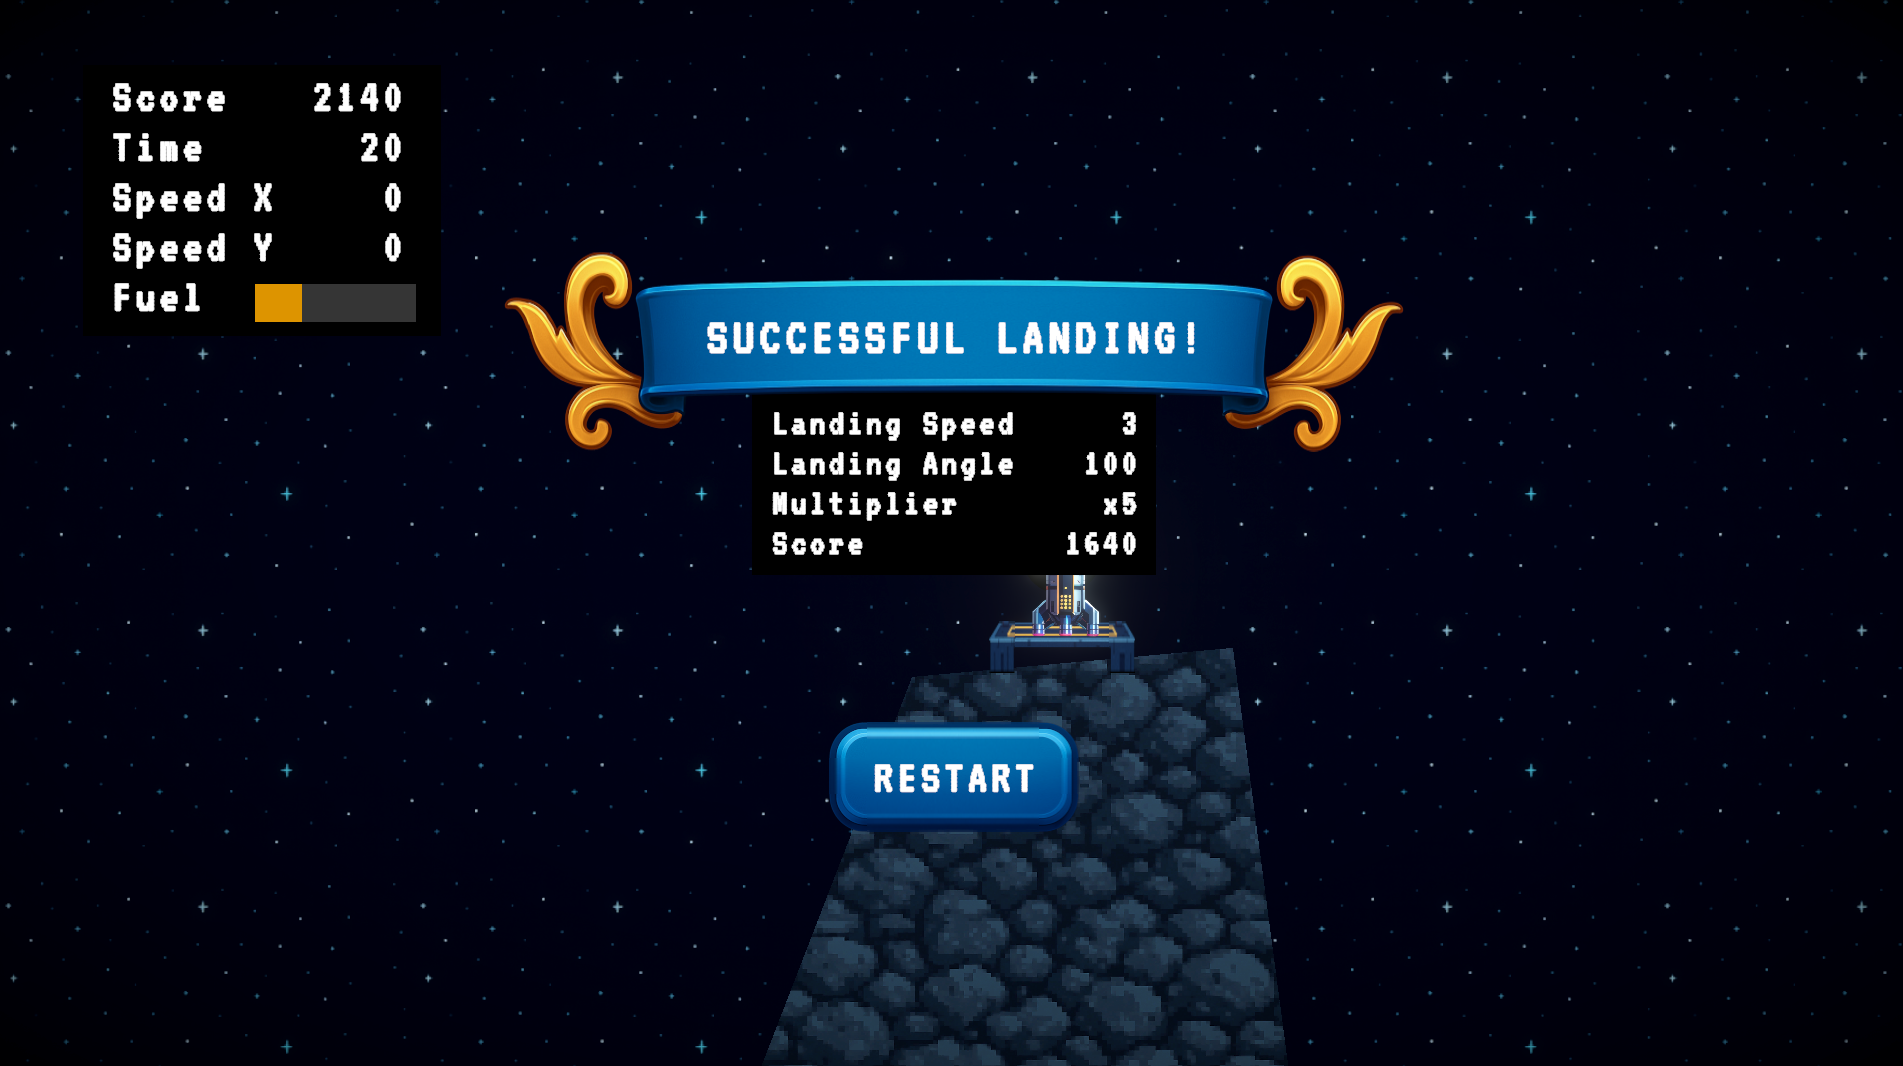
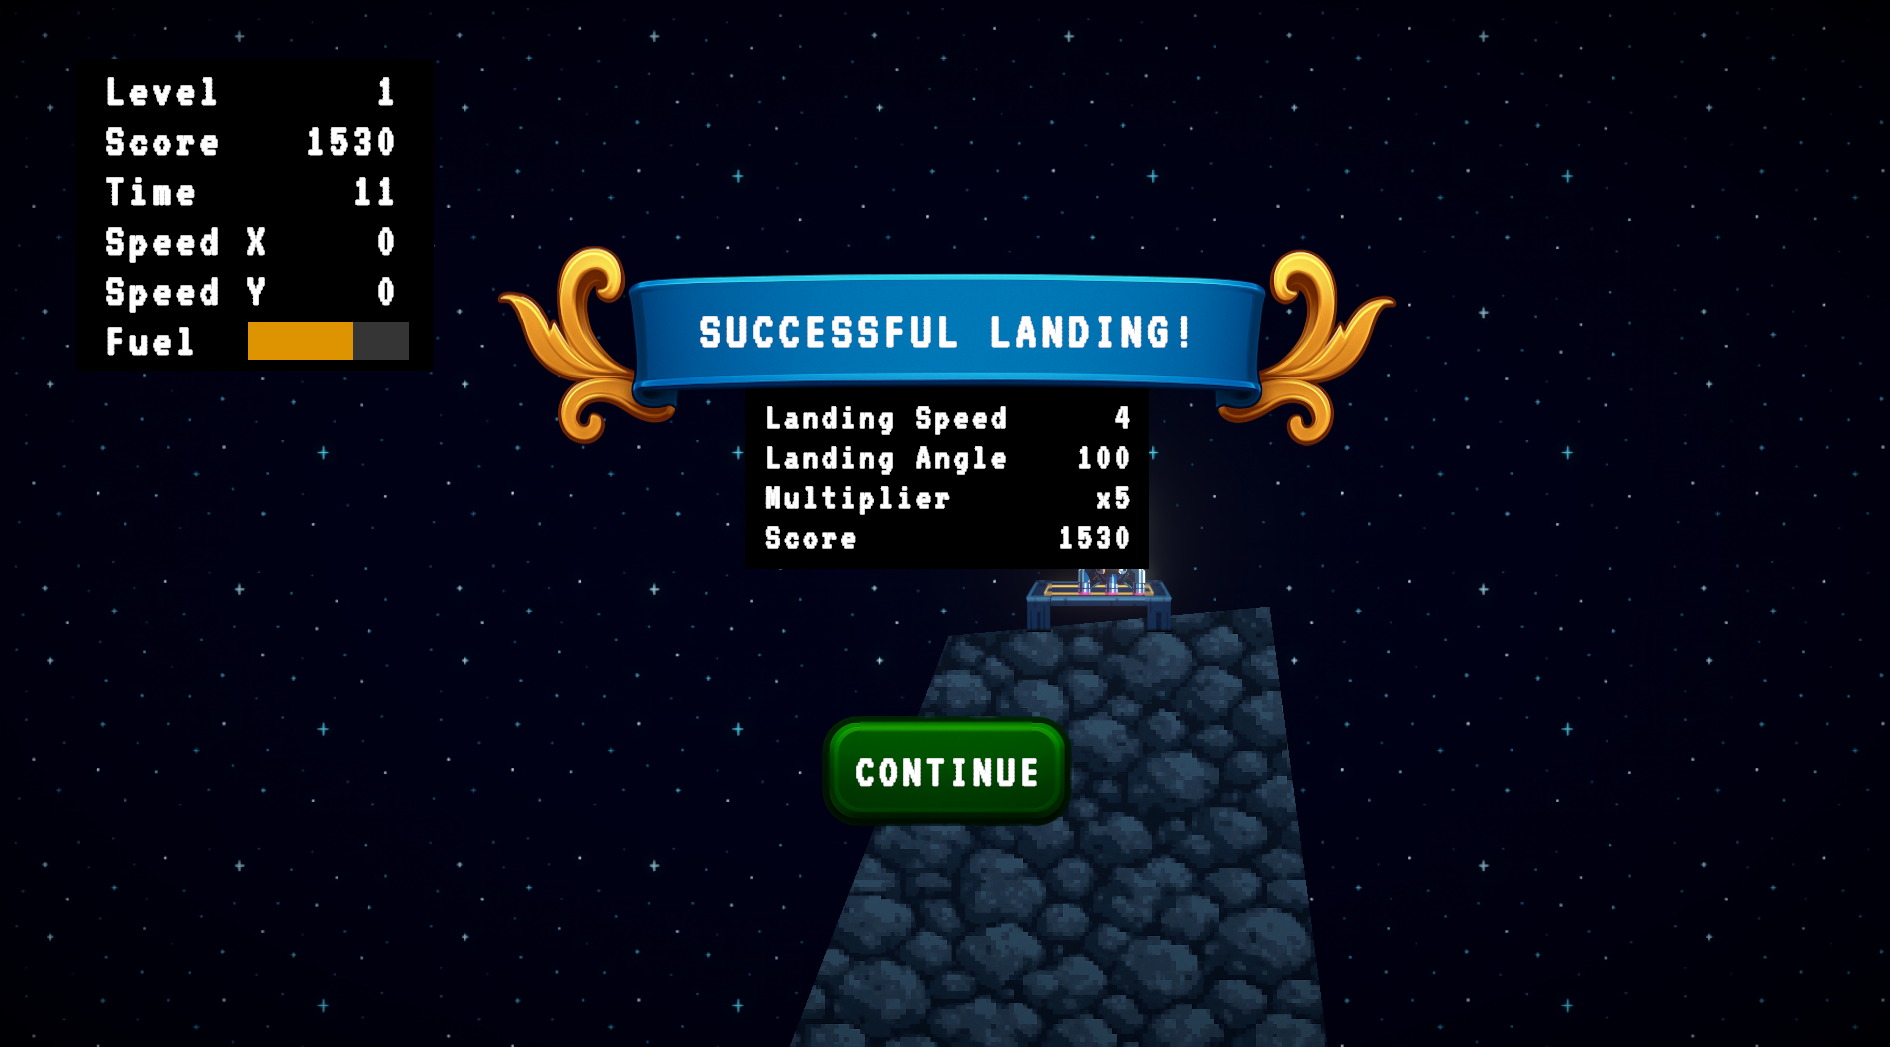
docs: finalize README with features and updated screenshots

diff --git a/README.md b/README.md
@@ -1,51 +1,52 @@
-# LuaLander
+# Lua Lander
 
-LuaLander is a small 2D lander game made with Unity.
+Lua Lander is a small 2D physics-based landing game made with Unity.
 
-The objective is to control the lander with its thrusters, collect coins and fuel pickups, and reach a landing pad without crashing. A landing is evaluated based on the lander's speed and angle. Safer and more accurate landings award a higher score, while some landing pads provide score multipliers.
+Control the lander with its thrusters, collect coins and fuel, and reach a landing pad without crashing. Landings are evaluated by speed and angle: safer, more accurate landings award higher scores, while smaller landing pads provide larger score multipliers.
 
-## Gameplay
+## Features
 
-- Use the upward thruster to move in the direction the lander is facing.
-- Use the left and right controls to rotate the lander.
-- Collect fuel pickups to restore fuel.
-- Collect coins to increase the score.
-- Land slowly and as upright as possible.
-- Avoid hitting the terrain or landing at excessive speed or angle.
-- Use higher-multiplier landing pads to earn more points.
+- Physics-based thrust and rotation
+- Keyboard and gamepad controls
+- Multiple levels with different landing challenges
+- Fuel management and collectible pickups
+- Landing scores based on speed, angle, and pad multiplier
+- Smooth Cinemachine level previews and camera zoom
+- Main menu, pause menu, landing results, and game-over screens
+- Music, thruster audio, and gameplay sound effects
 
 ## Controls
 
-| Action | Key |
-|---|---|
-| Thrust | Up Arrow |
-| Rotate Left | Left Arrow |
-| Rotate Right | Right Arrow |
+| Action | Keyboard | Gamepad |
+|---|---|---|
+| Thrust | `W` or Up Arrow | South button or Left Stick Up |
+| Rotate Left | `A` or Left Arrow | West button or Left Stick Left |
+| Rotate Right | `D` or Right Arrow | East button or Left Stick Right |
+| Pause / Resume | `Esc` | Start |
 
 ## Screenshots
 
-### Gameplay
-
-![Gameplay](docs/images/gameplay.png)
-
-### Landing Result
-
-![Landing Result](docs/images/landing-result.png)
-
-### Crash Result
-
-![Crash Result](docs/images/crash-result.png)
+<table>
+  <tr>
+    <td align="center"><strong>Main Menu</strong><br><img src="docs/images/main-menu.png" alt="Main menu" width="100%"></td>
+    <td align="center"><strong>Flight Gameplay</strong><br><img src="docs/images/flight-gameplay.png" alt="Lander flying through a level" width="100%"></td>
+    <td align="center"><strong>Pause Menu</strong><br><img src="docs/images/pause-menu.png" alt="Paused level overview" width="100%"></td>
+  </tr>
+  <tr>
+    <td align="center"><strong>Landing Approach</strong><br><img src="docs/images/gameplay.png" alt="Lander approaching a landing pad" width="100%"></td>
+    <td align="center"><strong>Successful Landing</strong><br><img src="docs/images/landing-result.png" alt="Successful landing result" width="100%"></td>
+    <td align="center"><strong>Crash Result</strong><br><img src="docs/images/crash-result.png" alt="Crash result" width="100%"></td>
+  </tr>
+</table>
 
 ## Project Status
 
-The project is still in development.
+The tutorial project is complete.
 
-It was created as a Unity learning project by following this tutorial:
+It was created as a learning project while following:
 
-[Unity Beginner Tutorial on YouTube](https://youtu.be/nGKd4yTP3M8)
+[Code Monkey's Unity 2D beginner course](https://youtu.be/nGKd4yTP3M8)
 
 ## Attribution and Licensing
-
-This educational project was created while following [Code Monkey's Unity 2D beginner course](https://youtu.be/nGKd4yTP3M8).
 
 My original source code and modifications are provided for educational purposes. Unity packages, fonts, tutorial assets, and other third-party materials remain subject to their respective licenses.
